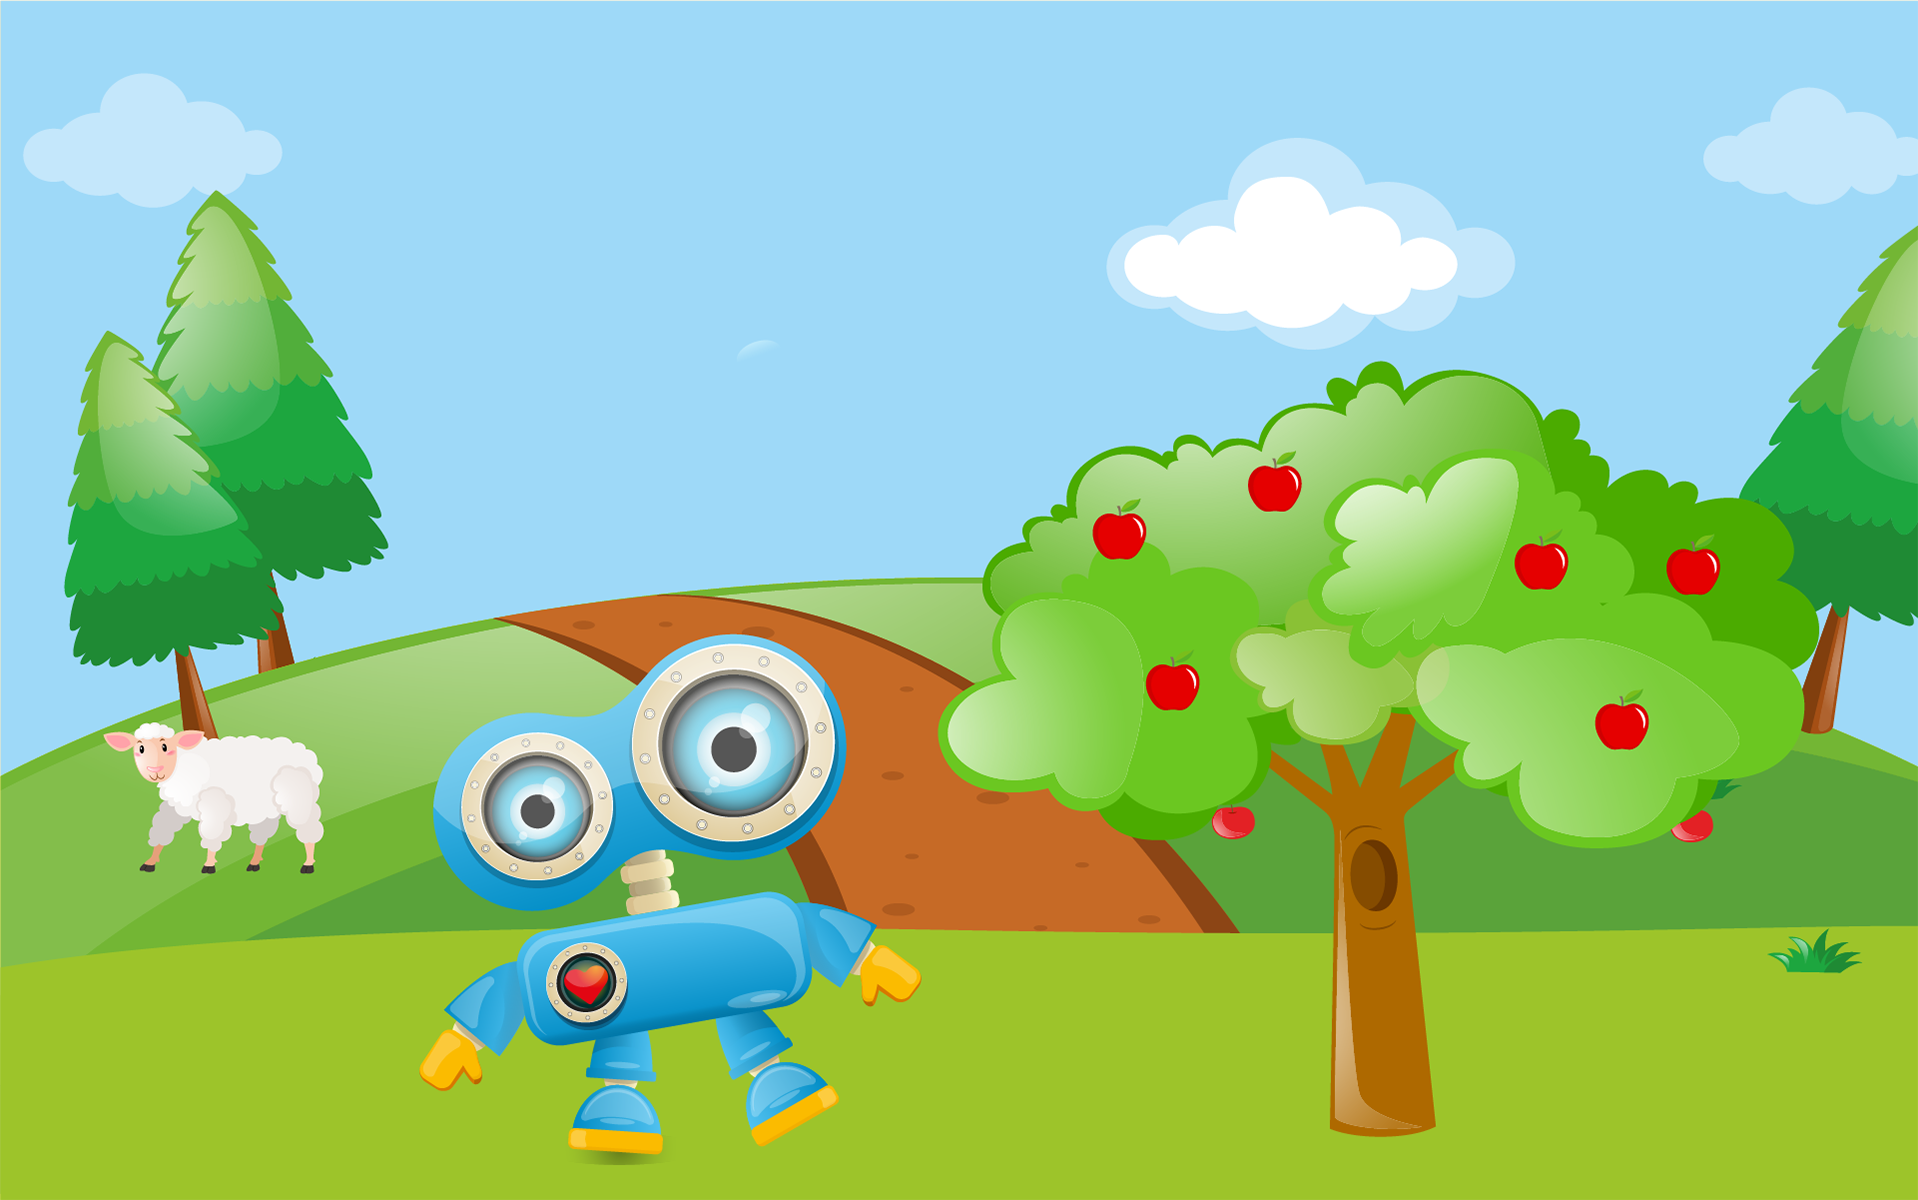
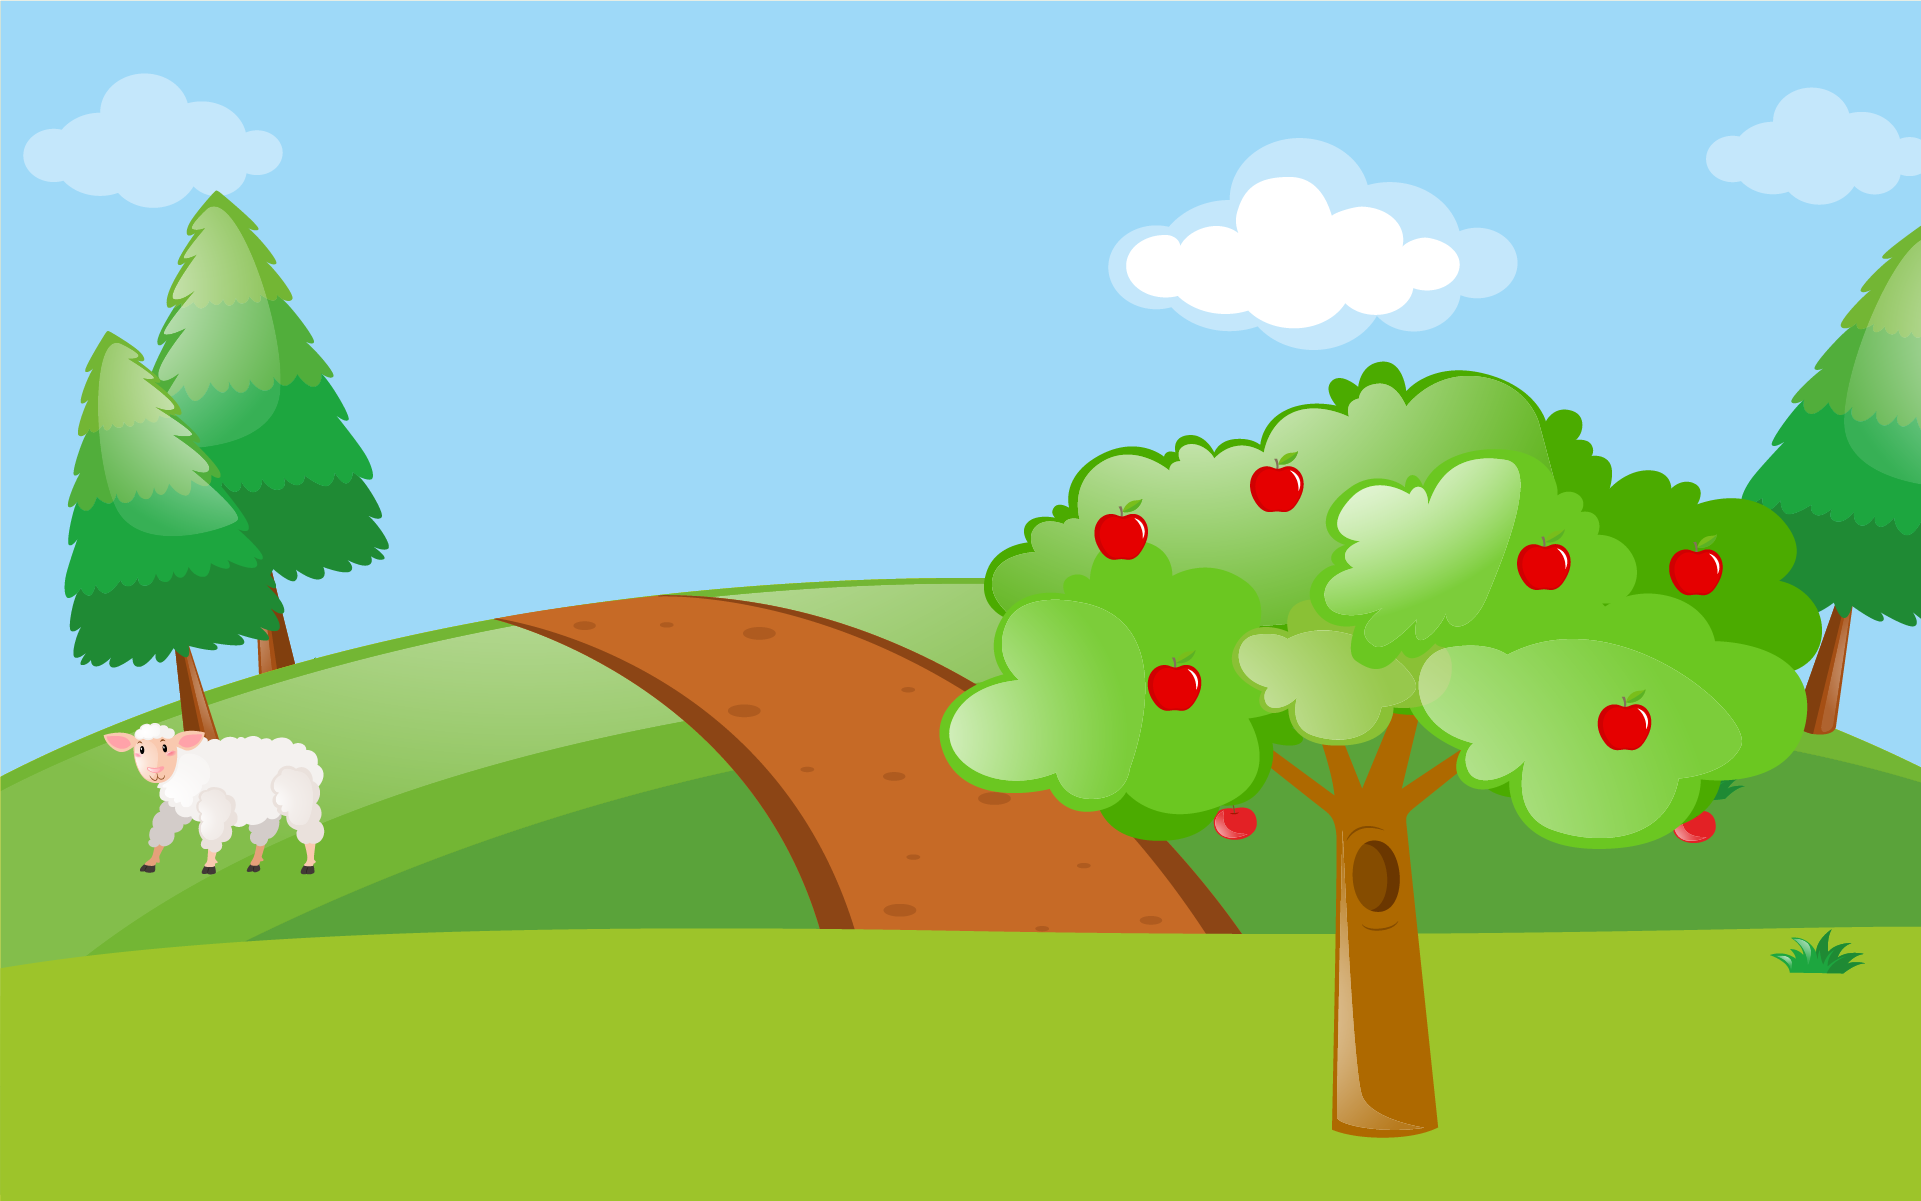
renew no-robot graphics

Changed region(s): [[0.2153, 0.5242, 0.4922, 0.9867]]

diff --git a/tablet_app/party_screen_room.py b/tablet_app/party_screen_room.py
@@ -27,8 +27,6 @@ class PartyScreenRoom(Screen):
         print("on_enter first_screen_room")
         self.the_tablet.change_state('party_screen')
 
-    def update_robot_character(self, robot_c):
-        self.ids['party_screen_background'].ids['robot_character'].source = './tablet_app/images/worlds/' + robot_c + '.png'
 
     def init_party(self, the_app, tangrams_solved):
         # display the number of tangrams solved (by the Robot and Child).
@@ -36,10 +34,10 @@ class PartyScreenRoom(Screen):
         self.world = the_app.study_world
         robot_char = the_app.robot_character
         self.ids['party_screen_background'].ids['background_image'].source = './tablet_app/images/worlds/' + self.world + '/TangramGame_Open.png'
-        self.update_robot_character(robot_char)
+        self.ids['party_screen_background'].robot_character.source = './tablet_app/images/worlds/' + robot_char + '.png'
         pos = the_app.interaction.components['robot'].animation['robot-position']
-        self.ids['party_screen_background'].ids['robot_character'].x = the_app.root.size[0] * pos[0]
-        self.ids['party_screen_background'].ids['robot_character'].y = the_app.root.size[1] * pos[1]
+        self.ids['party_screen_background'].robot_character.x = the_app.root.size[0] * pos[0]
+        self.ids['party_screen_background'].robot_character.y = the_app.root.size[1] * pos[1]
 
         i = 0
         # for balloon in self.ids['balloons_won_widget'].ids:

diff --git a/tablet_app/tangram_mindset_app.py b/tablet_app/tangram_mindset_app.py
@@ -552,6 +552,7 @@ root_widget = Builder.load_string('''
             pos: root.pos
 
 <PartyScreenBackground>:
+    robot_character:robot_character
     Image:
         id: background_image
         size: root.size
@@ -567,7 +568,6 @@ root_widget = Builder.load_string('''
         height: root.height * 0.4
         width: self.height * 1.2
         allow_stretch: True
-        pos: root.width * 0.2 - self.width * 0.5, root.height * 0.3 - self.height * 0.5
         canvas.before:
             PushMatrix
             Rotate:
